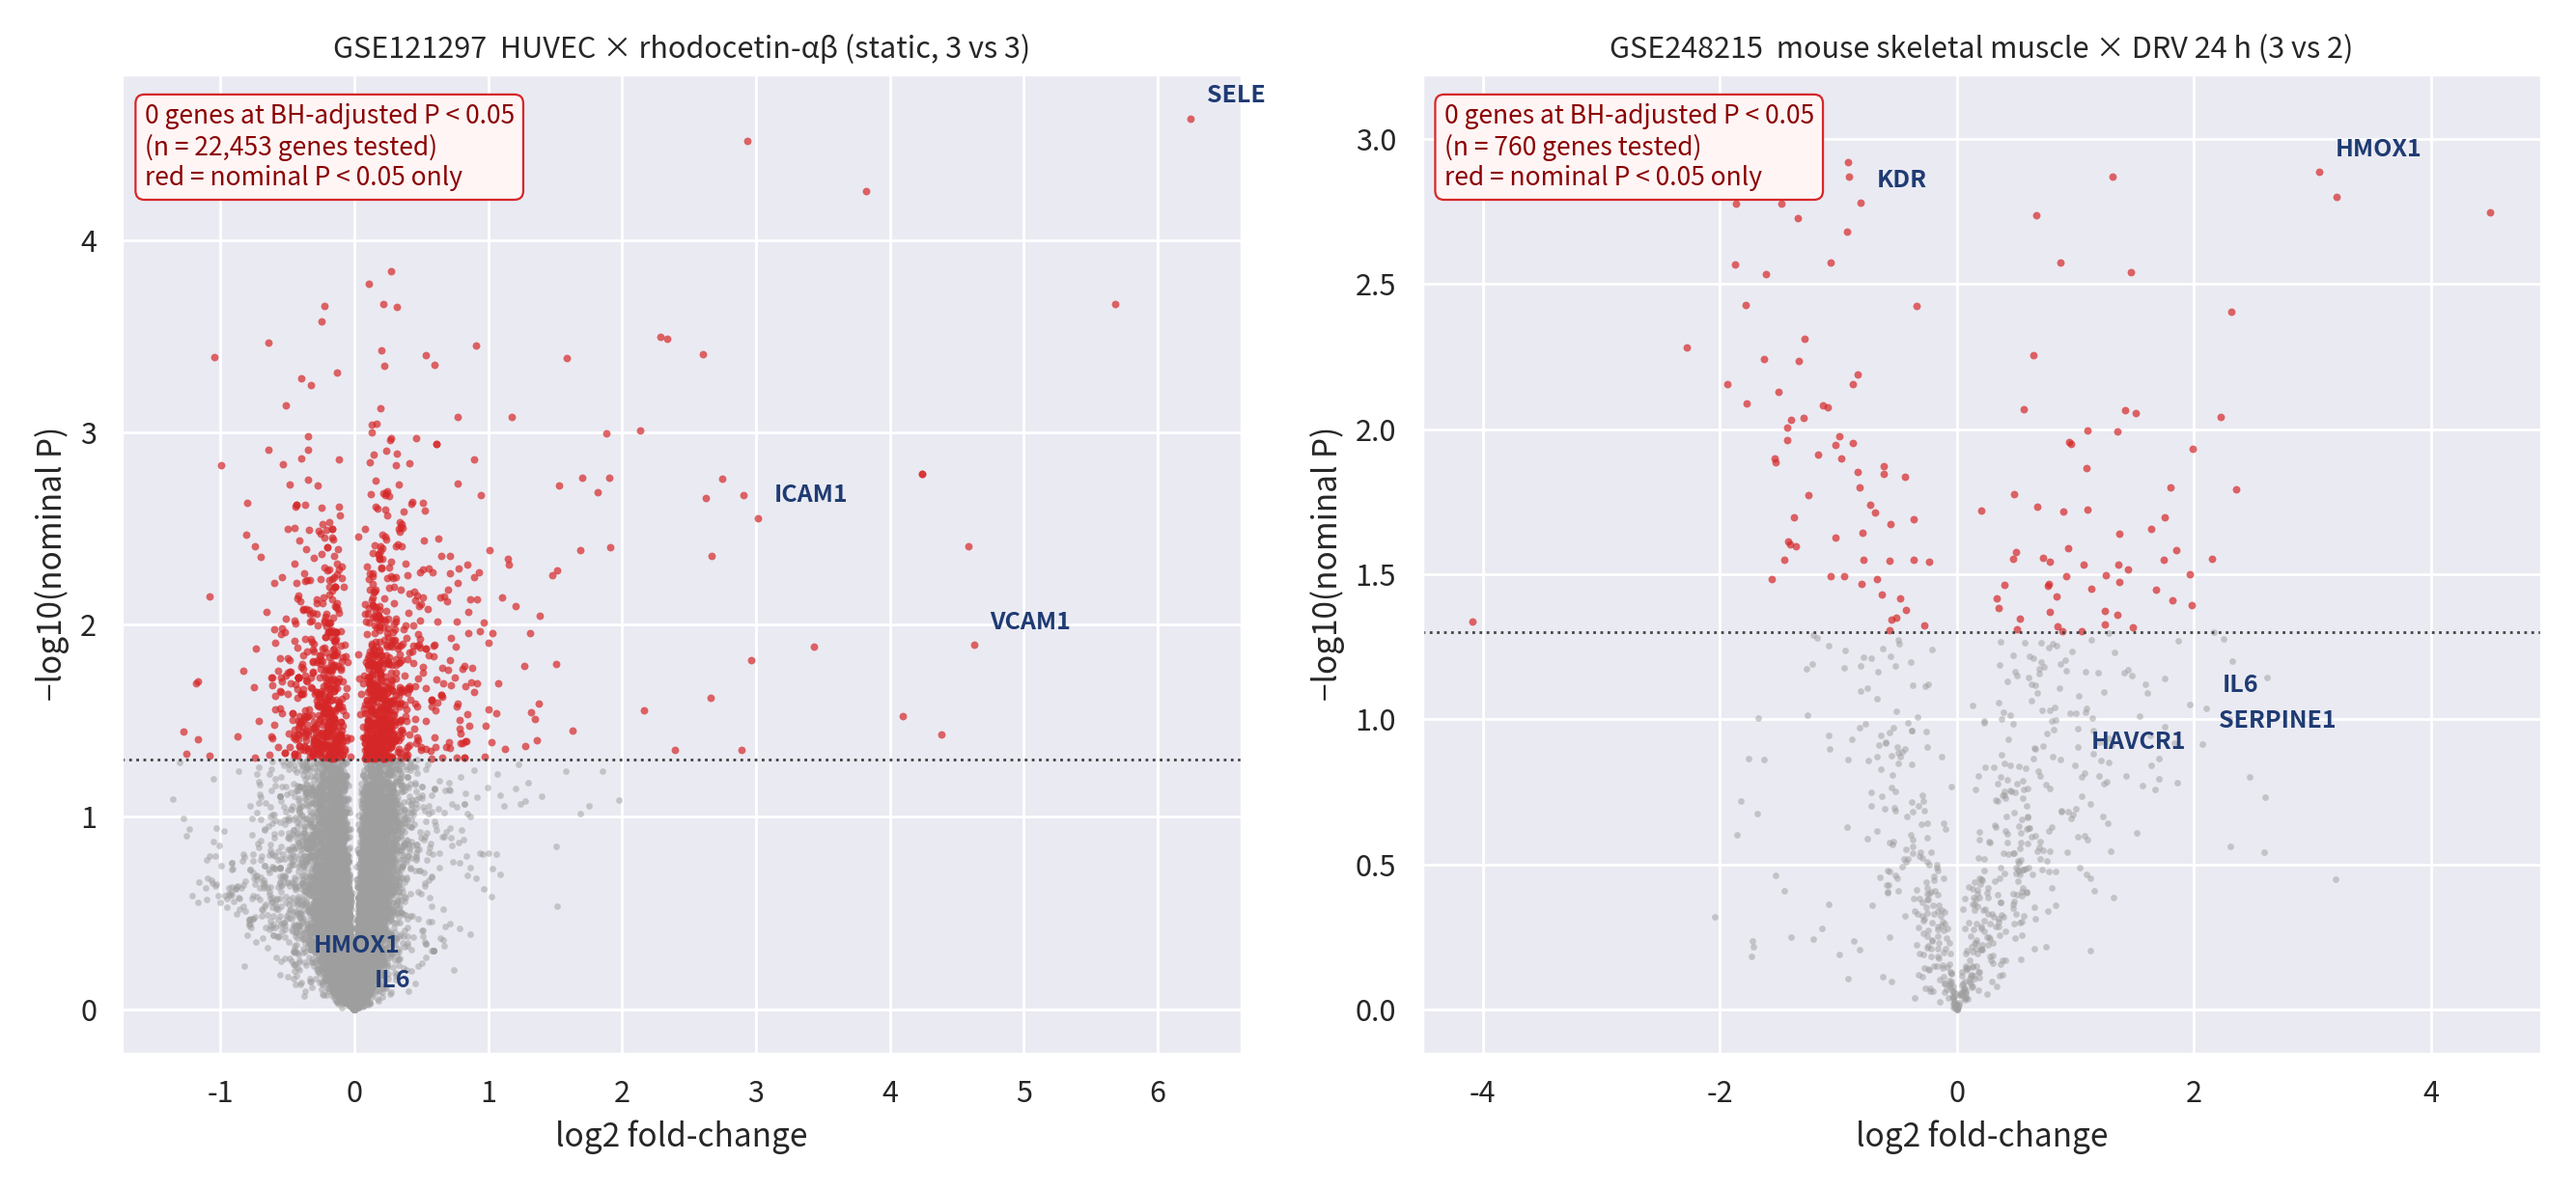
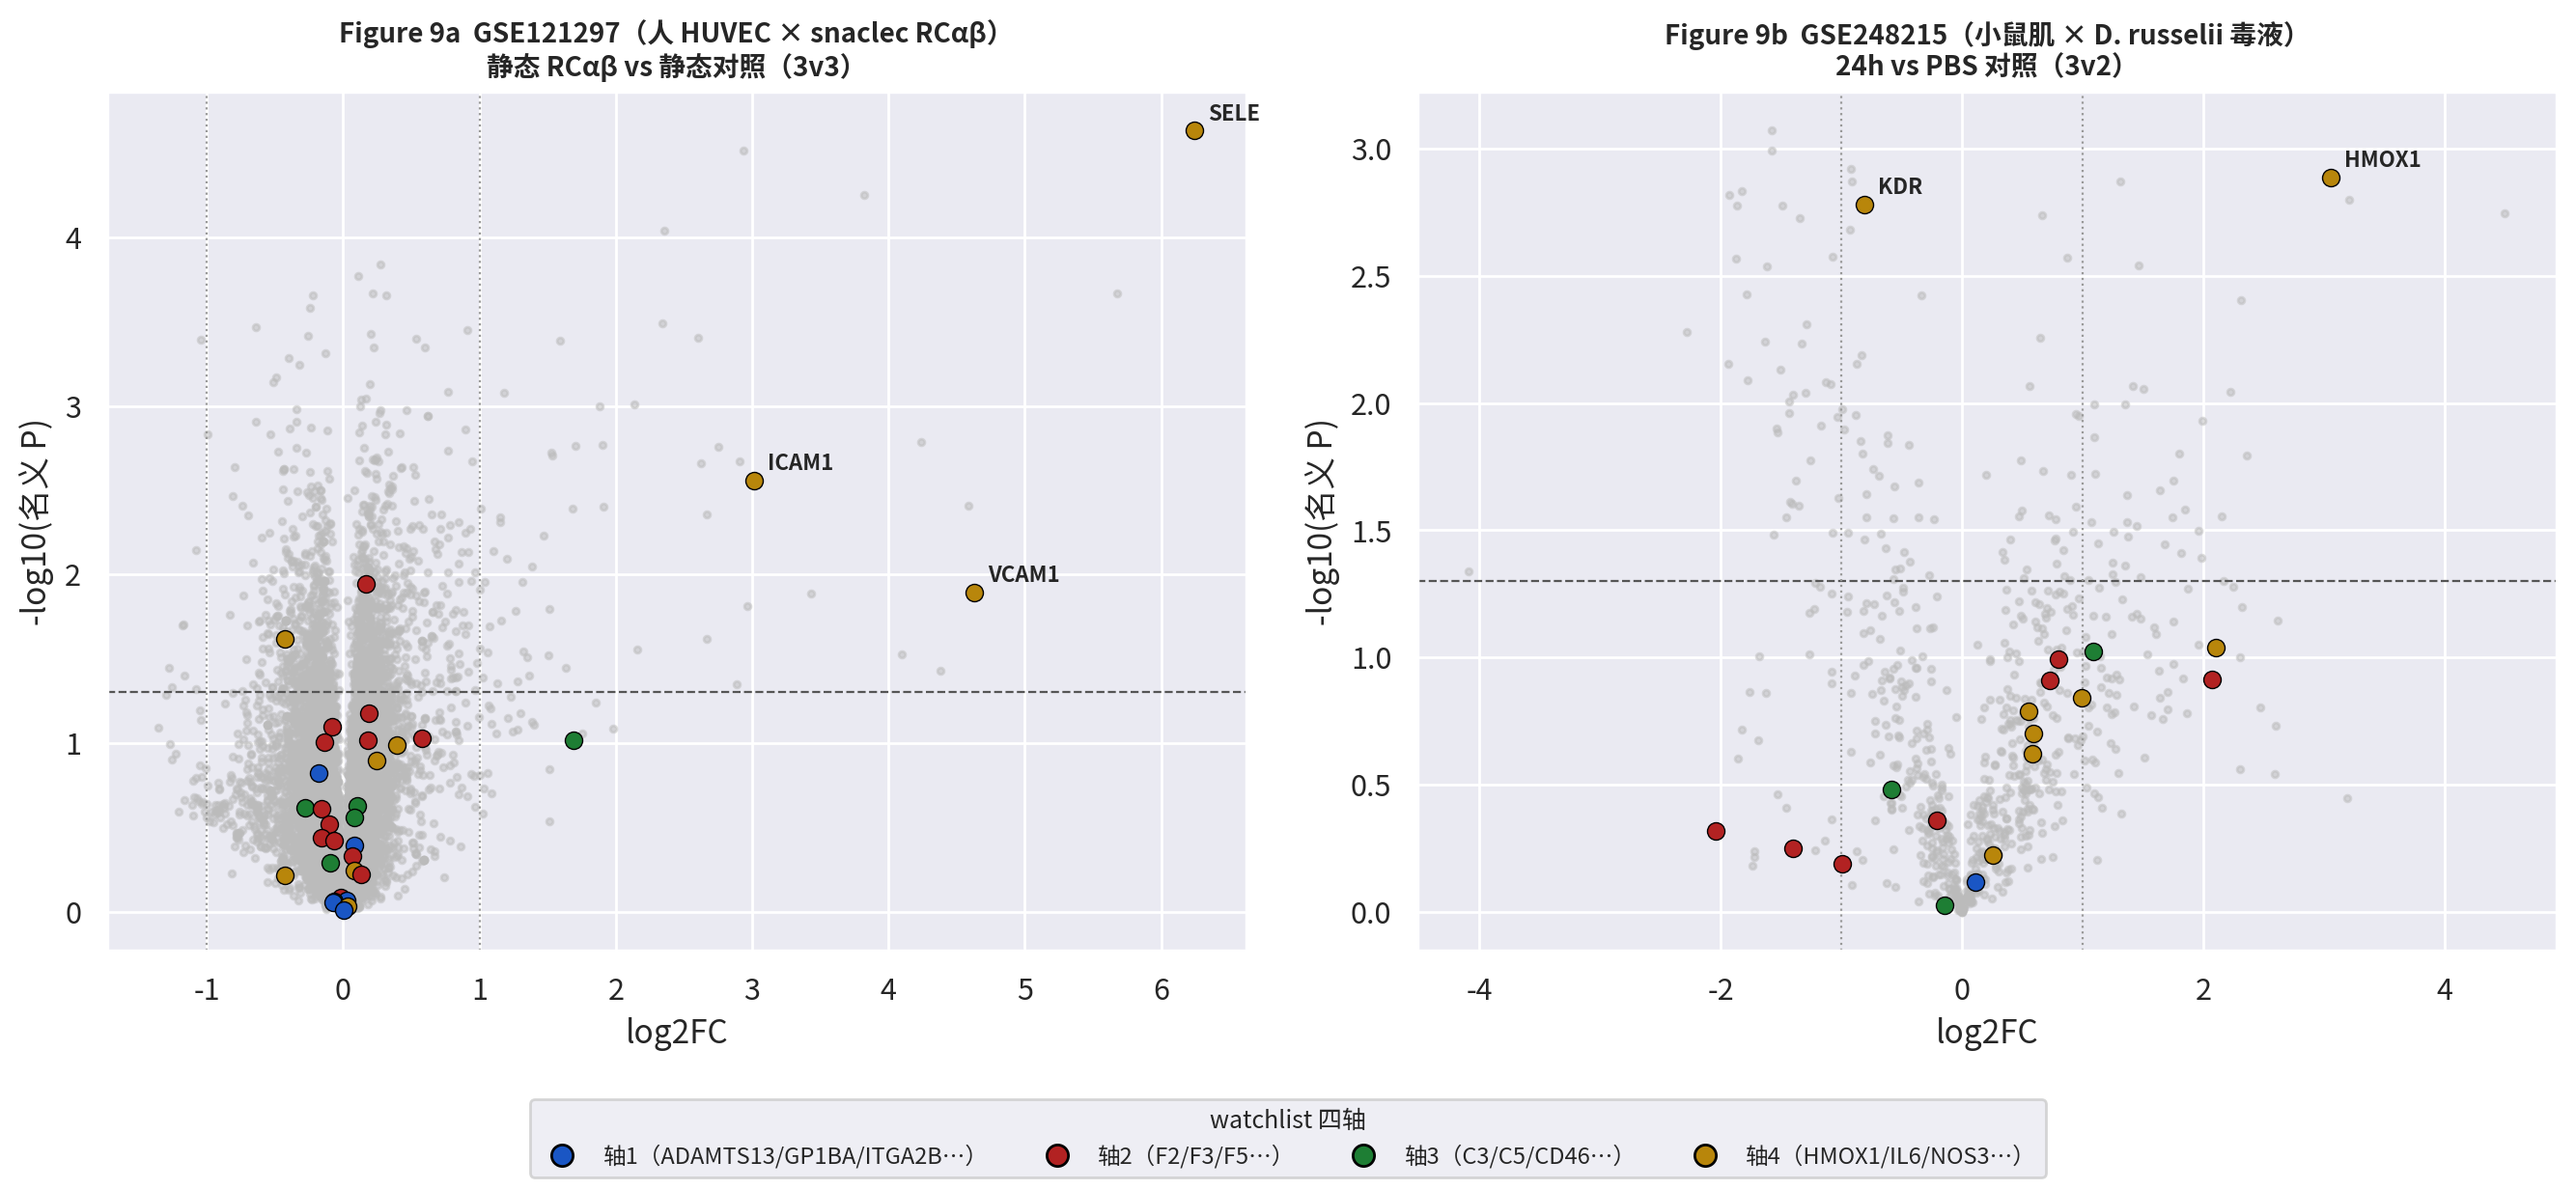
Add files via upload

diff --git a/06_geo/GEO验证报告.md b/06_geo/GEO验证报告.md
@@ -1,0 +1,57 @@
+# GEO 转录组验证报告（三重干法验证第 1 层）
+
+日期：2026-09-24 ｜ 执行：Kimi ｜ 状态：**完成**
+
+## 1. 数据集与对比设计
+
+| 数据集 | 模型 | 主对比 | 平台/基因数 |
+|---|---|---|---|
+| GSE121297 | 人 HUVEC × snaclec（rhodocetin-αβ） | 静态 RCαβ vs 静态对照（3v3） | Affymetrix HG-U133 Plus 2.0 / 22,454 基因 |
+| GSE248215 | 小鼠骨骼肌 × *D. russelii* 毒液（30 µg 体内注射） | 24 h vs PBS 对照（3v2） | NanoString Fibrosis V2 Panel / 760 基因 |
+
+方法说明：limma 流程以 Python 复现（Welch t + BH FDR；探针经 g:Profiler convert API 注释，基因级取最高表达探针）；NanoString 用作者提供的归一化 log2 矩阵。**两数据集样本量小（3v3 / 3v2），BH 校正后均无 DEG 达 adj<0.05**——按侦察预案以"名义 p<0.05 + |log2FC|"作探索性判读并全程标注，此限制写入 Limitations。
+
+## 2. 核心发现（watchlist 35 先验分子）
+
+### GSE121297（人内皮 × snaclec）
+
+- **轴4 内皮/炎症强烈激活**（名义显著）：SELE +6.24（p=2.3e-5）、VCAM1 +4.63、ICAM1 +3.01、NOS3 −0.43；全转录组层面 CXCL5 +5.68、CXCL3 +3.82、LTB +2.94、EBI3 +2.60 同为顶部信号——重现原研究的 snaclec→内皮炎症激活结论，**数据集质量自证通过**；
+- 轴3 补体：仅 CFB +1.69（p=0.096 趋势），C3/C5/CFH/CFI/CD46 均无变化；
+- 轴1/轴2：VWF、ADAMTS13、F2/F5/F10 等凝血因子无转录变化（预期内：凝血因子肝源合成，局部内皮不调控）。
+
+### GSE248215（小鼠体内 × *D. russelii* 毒液 24h）
+
+- **HMOX1 +3.05（p=0.0013）**——轴4 氧化应激最强命中；IL6 +2.10、SERPINE1 +2.07、HAVCR1 +0.99（肾损伤标志）、TNF/VCAM1/ICAM1 正向趋势；
+- KDR −0.81（p=0.0017，最显著之一）——内皮修复/血管生成下调；
+- 轴3 补体：CFH +1.08（p=0.095 趋势），C3 −0.59、CFI 无变化；
+- 轴2：SERPINE1 上调（纤溶抑制方向，与 VICC 一致），FGA/FGG 转录下降（消耗或负相反应方向，ns）。
+
+## 3. 对三条假说轴的判定（如实）
+
+| 轴 | 直接靶点层（Phase 3/4） | GEO 转录组层 | 综合判定 |
+|---|---|---|---|
+| 轴1 血小板/vWF | 直接边（GP1BA、VWF 邻居） | 无转录变化 | 毒素直接作用层支持，继发转录层中性 |
+| **轴2 凝血/纤溶** | **强支持（Hub+富集双平台）** | SERPINE1 ↑（纤溶抑制） | **全链条支持最强** |
+| **轴3 补体** | 直接层 0 基因 | **CFB（人内皮，趋势）+ CFH（小鼠体内，趋势）** | **弱阳性**：补体既非毒素直接靶点，转录层亦仅旁路因子趋势——H2 需降格表述为"旁路补体可能参与"，不能作为主机制；如实写入 Discussion |
+| **轴4 内皮/炎症/肾** | KDR 直接边 | **强支持（SELE/VCAM1/ICAM1/HMOX1/IL6 跨人/小鼠一致）** | **与轴2 并列最强** |
+
+## 4. 结论
+
+1. 毒素→凝血/纤溶（轴2）是主导机制，转录组层无矛盾；
+2. 内皮炎症激活（轴4）在**人源内皮细胞**与**目标蛇种体内模型**中跨物种重复，成为第二支柱；
+3. 补体（轴3）在三层证据中均缺直接支撑：无 L1/L2 边、富集驱动 0 基因、转录层仅 CFB/CFH 趋势——按 SOP 预定策略作为**阴性结果如实写入 Discussion**（H2 降格）；
+4. HAVCR1（KIM-1，肾损伤标志）体内上调趋势为 AKI 表型提供了初步转录线索。
+
+## 5. 产出文件
+
+- `06_geo/GSE121297_deg_static_rcab_vs_ctrl.csv`（22,454 基因全表）、`GSE121297_watchlist.csv`
+- `06_geo/GSE248215_deg_DR24h_vs_ctrl.csv`、`GSE248215_deg_DR24h_vs_DR1h.csv`
+- `06_geo/geo_watchlist_combined.csv`（35 分子双数据集汇总）
+- `06_geo/figure4_volcano.png`（Figure 4a/4b）、`figure4c_watchlist.png`（Figure 4c）
+- 原始存档：系列矩阵 ×3、`gpl570_probe2symbol.csv`（61,013 探针映射）
+- 可复跑脚本：`scripts/geo_gse121297.py`、`geo_figures.py`
+- Excel：变更记录 v12
+
+## 6. Limitations（写入论文）
+
+样本量小（3v3、3v2 对照）、无蛇伤患者转录组（GEO 阴性结果）、NanoString Panel 仅 760 基因、小鼠肌肉/人脐静脉内皮与肾小球内皮存在组织外推距离、BH 校正下无 DEG 达 adj<0.05 故全部判读基于名义 p 值并标注探索性。
